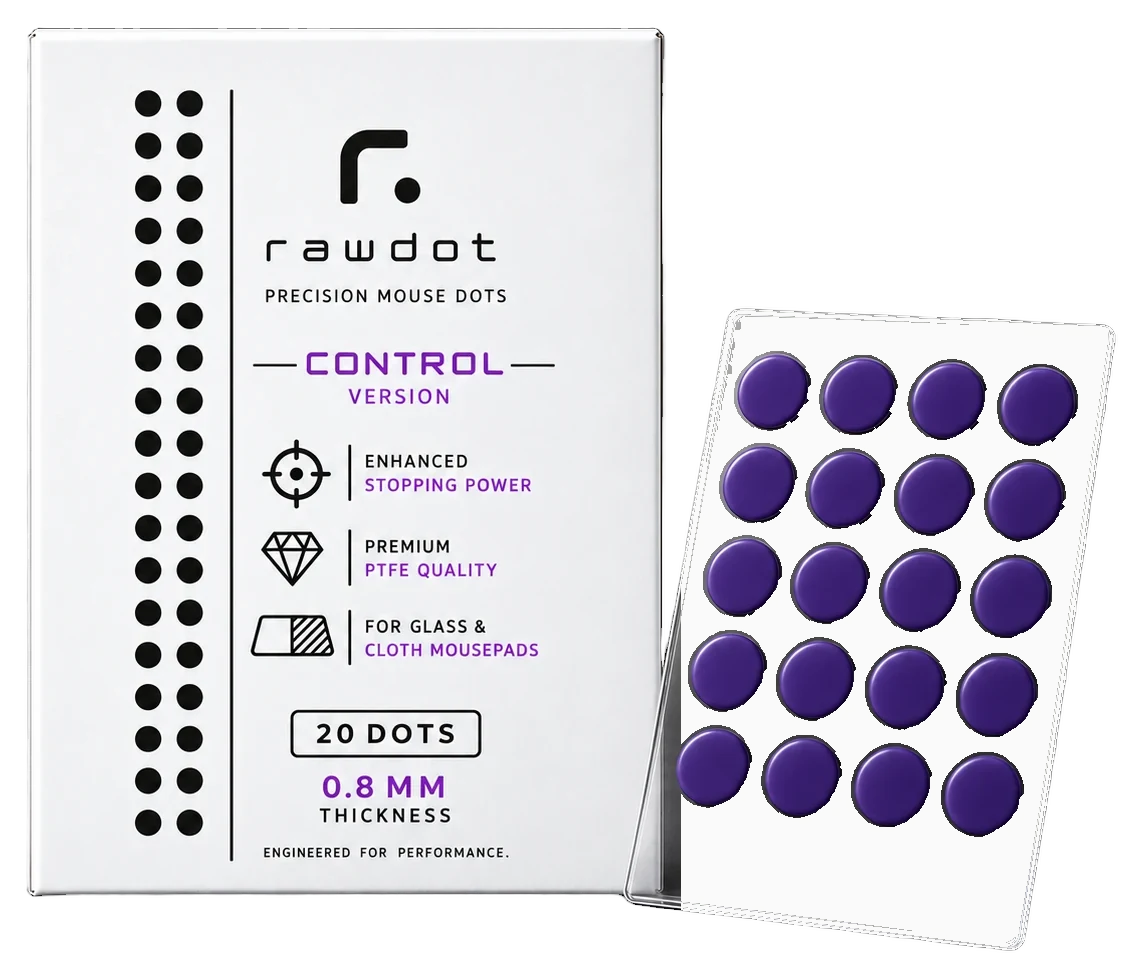
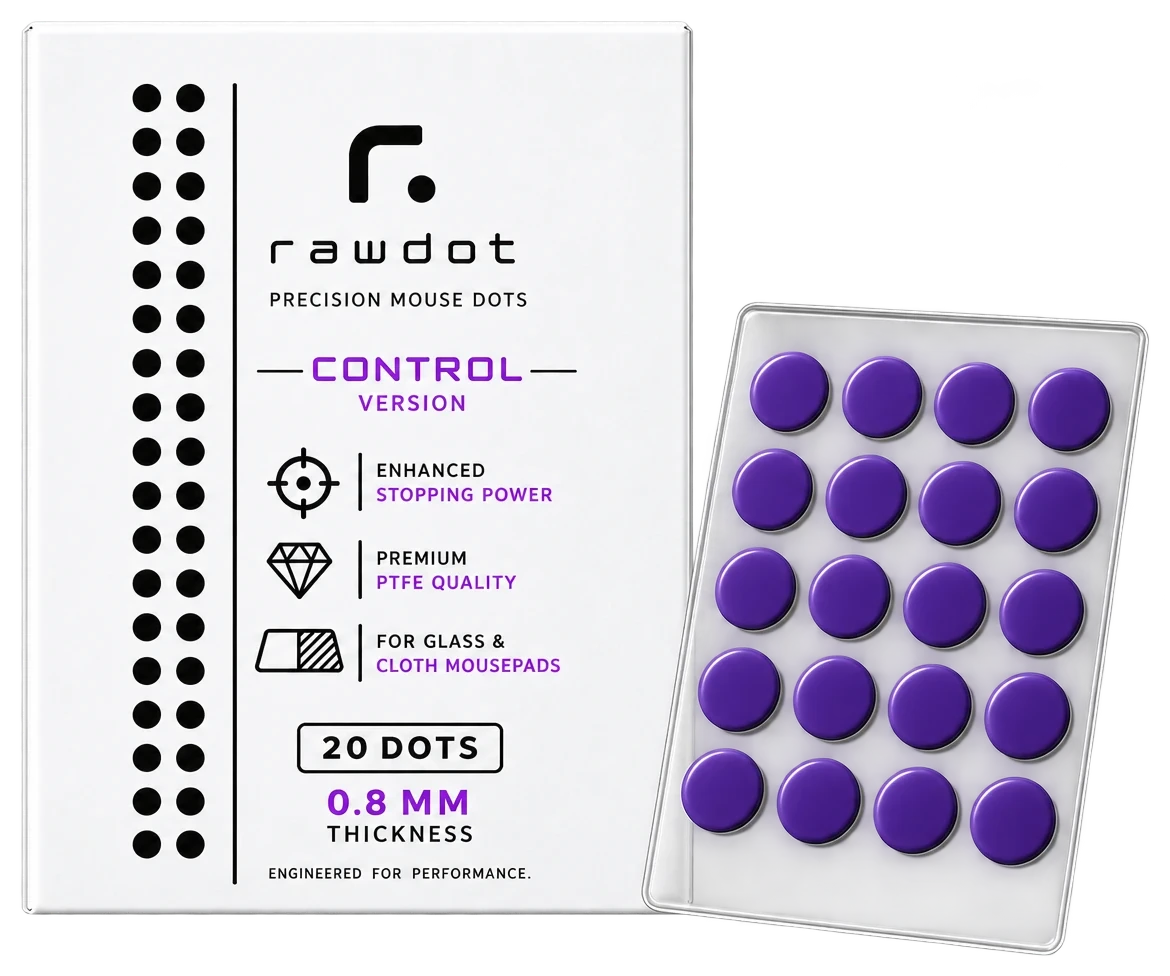
feat: owner's background-free photos for Ice and Control
Replaces the automatic cutouts with the owner's own: pack, dots beside a
mouse, and the side view for Ice; pack and side view for Control (its
mouse-and-dots photo is still to come).

Claude-Session: https://claude.ai/code/session_01Sf1CH9XxMgvTnTFrAGx1nA

Changed region(s): [[0.0, 0.0307, 0.9807, 0.9836], [0.3065, 0.123, 0.3678, 0.1537], [0.3371, 0.1844, 0.3678, 0.2152]]

diff --git a/CLAUDE.md b/CLAUDE.md
@@ -19,7 +19,7 @@ Direct-to-consumer store for rawdot gaming peripherals: mouse skates, glasspads,
 - **Logo intro:** on the first page view of a browser tab, the black rawdot "r" draws on white, the dot glides in, then the screen wipes up (~1.8 s). Shown in the theme editor too. Reduced motion: the finished logo fades out instead. Off via a theme setting.
 - **Switching versions:** a tab row at the top of the product panel showing the **type only** ("Speed | Control"); the product name is the title. This avoids "Control Version · CONTROL" (owner chose the names before the types; renaming is optional). The black type badge is hidden when tabs are shown. Animated transition; no arrows, "1 of 2" or floating chips. Header links (Skates, Glasspads, Arm sleeves) switch categories on the homepage. On phones the add-to-cart bar is fixed to the bottom.
 - **Below the first screen: a guide per product** (block setting `guide`). Content belongs to the selected version only; never show skate content for glasspads or sleeves. `skates` (`snippets/guide-skates.liquid`, used by Ice Version and Control Version with the name swapped in): recommended placements, what's included, how to install (original installation images, English or Spanish; other languages get the steps as text under the English images, an owner-approved exception to the no-text-in-images rule), FAQ. `coming_soon` (`snippets/guide-coming-soon.liquid`, glasspad and arm sleeve): known facts plus notify me. Copy rules from the owner: skate placement is about dot count, position and keeping the mouse level (more dots = more control, fewer = faster), never "grip"; universal dots fit any mouse, so answer "Yes"; treat Control Version as available in copy.
-- **Product photos (14 Oct 2026, owner: "recórtalas"):** product photos float on the page with no frame (background removed, soft drop shadow), like the 11:37 glasspad; the owner agreed framed squares (white box / black box) looked pasted on and made Speed and Control clash. The stage is a swipeable gallery (scroll snap) with small round dots under it (the brand dot). Cutouts are theme files set in the block setting `image_asset` (comma-separated), which replaces the Shopify product's own photos: Ice Version = `ice-version-1-cutout.webp, ice-version-2-cutout.webp` (cut from the Shopify photos `rawdot_pack_dots.png`, `ice_on_mouse.png`), Control Version = `control-version-{1,2,3}-cutout.webp`, 11:37 = `glasspad-cutout.webp`. When the owner changes product photos in Shopify, cut out the new ones (rembg `birefnet-general-lite`, plus manual fixes: fill holes in printed graphics, flood-fill flat backgrounds so holes in a mouse stay, render clear plastic as light glass) and update `image_asset`; clear the setting to fall back to Shopify's photos. Files named `*-cutout*` get the drop shadow; other photos get rounded corners and a shadow. A 3D model in the product's media replaces the photos.
+- **Product photos (14 Oct 2026, owner: "recórtalas"):** product photos float on the page with no frame (background removed, soft drop shadow), like the 11:37 glasspad; the owner agreed framed squares (white box / black box) looked pasted on and made Speed and Control clash. The stage is a swipeable gallery (scroll snap) with small round dots under it (the brand dot). Cutouts are theme files set in the block setting `image_asset` (comma-separated), which replaces the Shopify product's own photos. The owner makes the cutouts (transparent PNG/WebP; owner rejected Claude's automatic cutouts on 14 Oct 2026); Claude only trims them and adds them. Order per version: pack, sheet beside a mouse with dots installed, mouse from the side (shows dot thickness). Ice Version = `ice-version-{1,2,3}-cutout.webp`; Control Version = `control-version-1-cutout.webp, control-version-3-cutout.webp` (the sheet-and-mouse photo `-2` is still to come from the owner); 11:37 = `glasspad-cutout.webp`. Clear the setting to fall back to Shopify's photos. Files named `*-cutout*` get the drop shadow; other photos get rounded corners and a shadow. A 3D model in the product's media replaces the photos.
 - **Reviews:** `sections/reviews.liquid`, customer screenshots added as blocks in the theme editor; shown with one category (skates by default) and hidden until it has at least one screenshot.
 - **About us:** an "About" link on the right of the header (and in the phone menu) opens a full-screen view: black brand panel with the real wordmark image (never RAWDOT typed in the UI font), one-line lead, then "How it started" as a four-step timeline (the problem, our answer, going global, next: glasspads). No social links there.
 - **See more** opens a dialog with information that is not on the first screen: a "Details" table (block settings `detail_1..4`, e.g. Type, Shape, Fits, Surfaces), the notify form for coming-soon products, and for skates "In the guide" links that scroll to placement, what's included, installation and FAQ. Never repeat the fact row or tagline there. No "view full product page" link: customers buy from the homepage. Product pages still exist (Shopify needs them for search, shared links and checkout) and use the same buy box.
